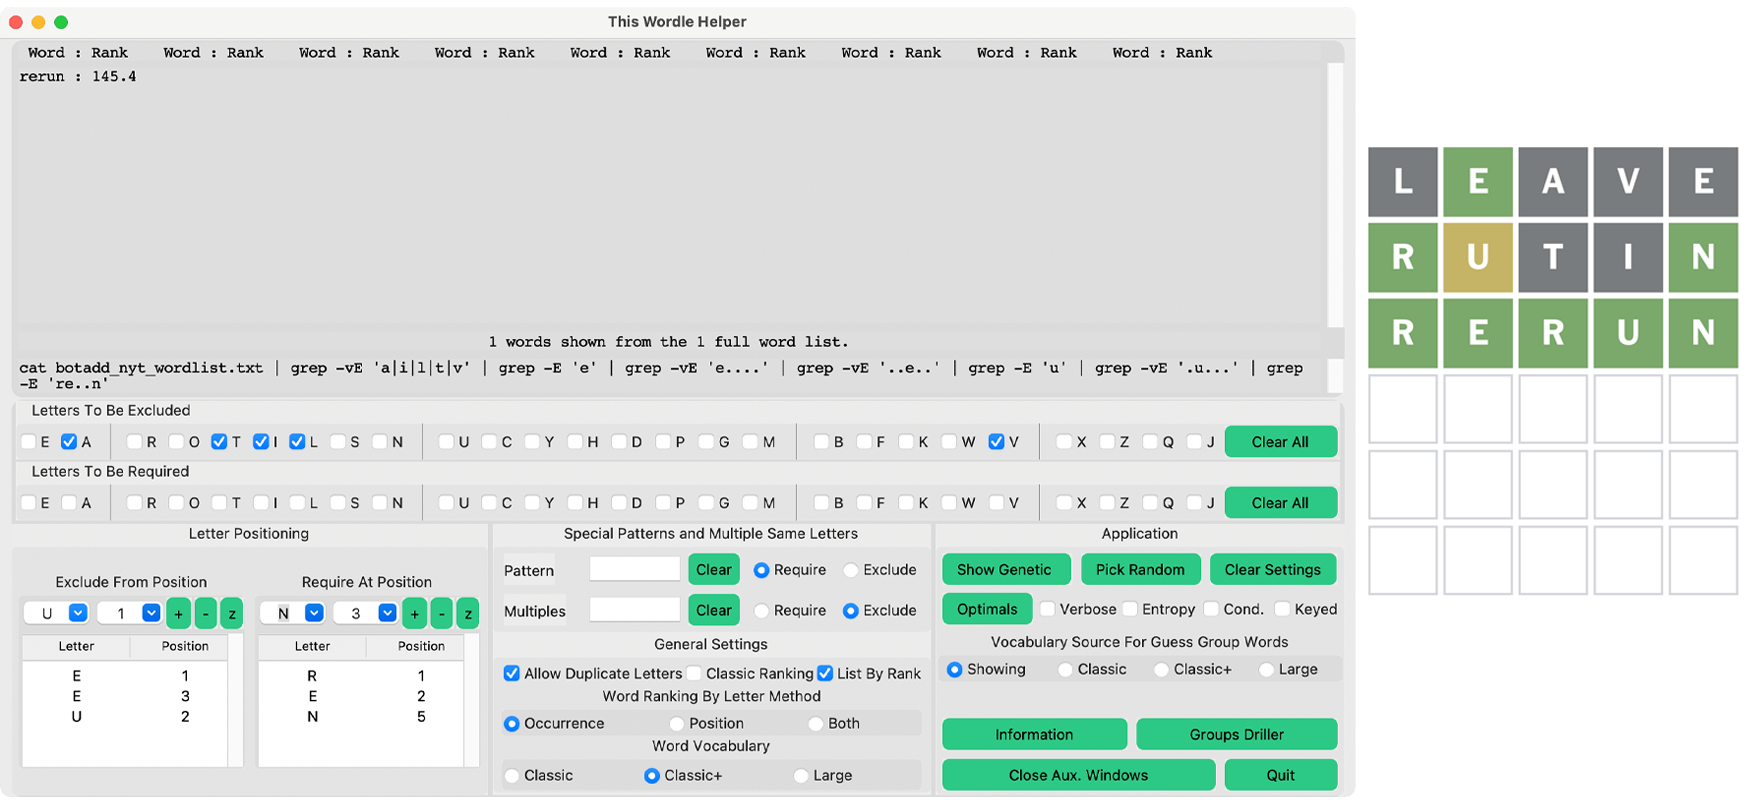
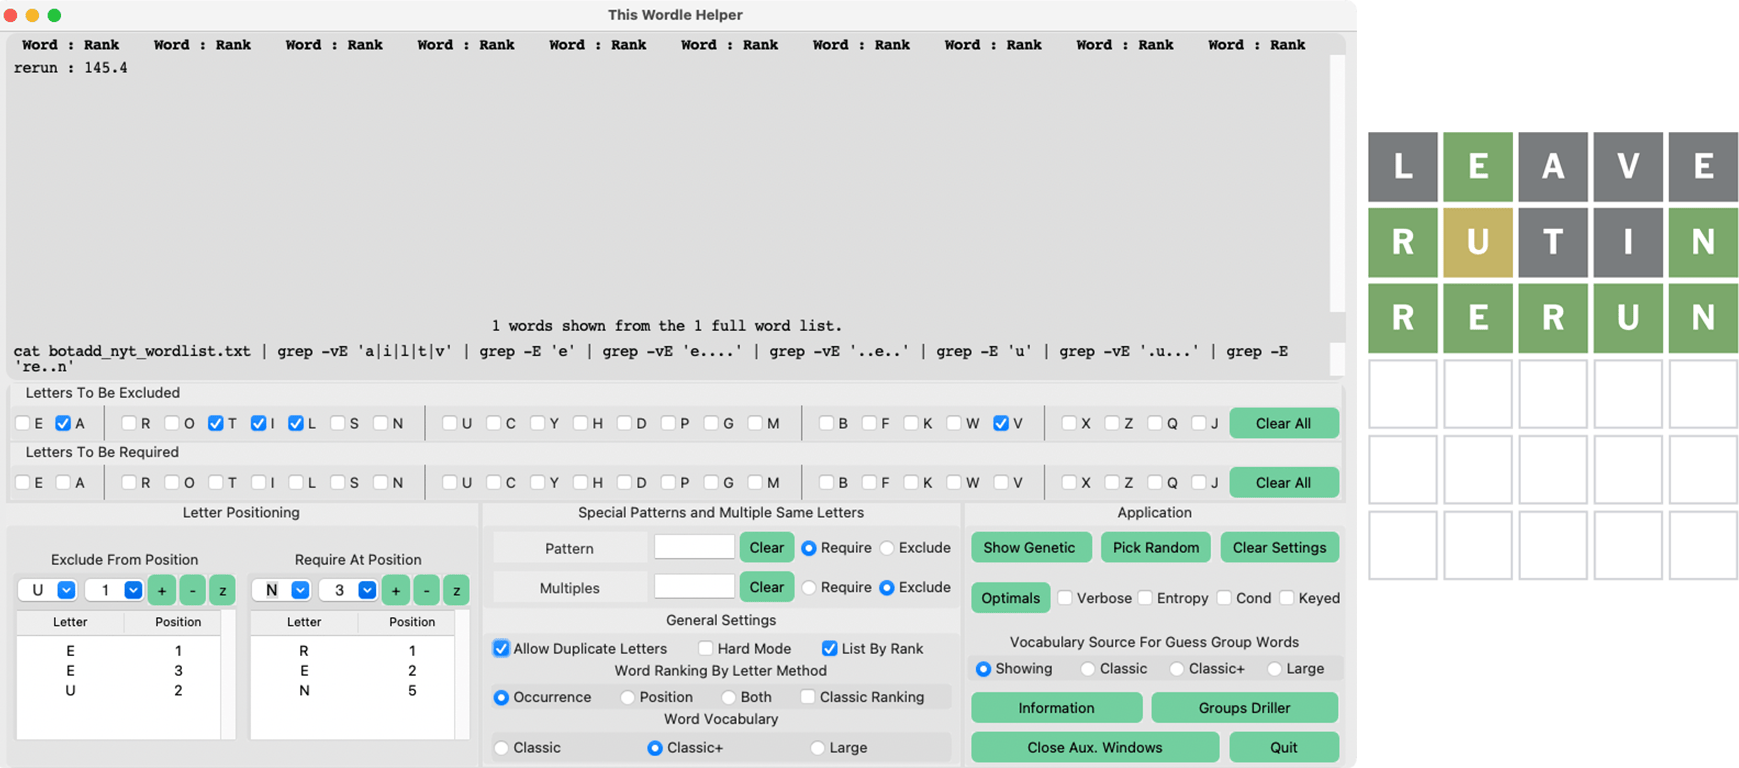
Hard Mode Documentation

Changed region(s): [[0.0, 0.1562, 1.0, 1.0], [0.0, 0.0, 0.7453, 0.125]]

diff --git a/helpers.py b/helpers.py
@@ -1485,7 +1485,8 @@ class CustomText(tk.Text):
 
         if not_found:
             msg = (f"Did not find \"{pattern}\"."
-                   f"\n\nThe word that was searched is not in the vocabulary that was used for guesses.")
+                   f"\n\nThe word that was searched is not in the vocabulary that was used for guesses."
+                   f"\n\nIs Hard Mode selected? Hard Mode excludes guesses from the vocabulary.")
             messagebox.showinfo(title=None, message=msg)
         else:
             self.see(first_index)

diff --git a/pywt.py b/pywt.py
@@ -358,7 +358,6 @@ class Pywordlemainwindow(ctk.CTk):
                 optimal_group_guesses = {}
                 context = "Wordle Helper"
 
-                # TO DO - convert guess_targets dict to be a dictionary of only hard mode guess targets
                 hm_grn_pat = ''
                 hm_yel_ltrs = []
                 if self.use_hard_mode.get():

diff --git a/README.md b/README.md
@@ -137,7 +137,8 @@
 * The **Group Driller** verbose report window is not being shown in this **README**. It is identical in function and appearance to the **Helper's** verbose report window when not using the **Condensed** option.
 * The **Keyed** option includes the guess word for each group pattern. This option is useful for maintaining the guess word associations when exporting the groups data (copy and paste) for all guesses.
 * The **Condensed** option verbose report omits showing the guess word groups. Instead, only the guess word's group stats are output in a format intended for copy and pasting into a spreadsheet application for further investigation.
-* The **Condensed** listing shows Wordle **Standard (Default) Mode** guesses as ranked by **Entropy**. There is not a way to filter out words so that only **Hard Mode** words are shown. However, it is often possible to use the **Find** feature to highlight the words that comply with **green** Wordle clues such that it is easy to then spot those words also having the correct **yellow** letters. The **Find** feature operates on regex patterns. For example, if the letter **i** is required as the 2nd letter and the letter **r** is required as the last letter, then "**^.i..r**" is the regex pattern that will cause all words like **timer**, **sitar** and **tiger** to be highlighted. Note that the "**^**" is required. Its regex meaning is "starting with". The "**.**", or dots, mean "any character." 
+* The **Condensed** listing shows Wordle **Standard (Default) Mode** or **Hard Mode** guesses as ranked by **Entropy**. The **General Settings** **Hard Mode** option controls which type of guess **Condensed** mode reports.
+* The **Find** feature operates on regex patterns. For example, if the letter **i** is required as the 2nd letter and the letter **r** is required as the last letter, then "**^.i..r**" is the regex pattern that will cause all words like **timer**, **sitar** and **tiger** to be highlighted. Note that the "**^**" is required. Its regex meaning is "starting with". The "**.**", or dots, mean "any character." 
 
 !['Group Drilling Condensed Result Window Image'](InfoImages/PYWTGroupDrillingCond.png)
 
@@ -184,9 +185,13 @@ Special **Pattern** allows one to quickly introduce a custom require or exclude 
 
 **Multiples** is a concept that may be difficult to understand at first. If your guess word has multiple same letters and one of those letters is yellow or green then all words with two or more of those letters must be *excluded* via **Multiples** because one of those letters being gray means the solution has just one of those letters. You can ignore the idea when all of those guess same letters are grey. If your guess word has multiple same letters and both of those letters is yellow or green in any combination then all words with two or more of those letters must be *included* via **Multiples**. You might need to think about needing three of those letters being *included*. **Multiples** operates as either include or exclude. More complicated requirements can be achieved by combining **Multiples** inclusions with **Exclude From Position** exclusions or **Special Pattern**. The Helper does not do any thinking for you in this regard.
 
+* **Hard Mode** restricts the guesses shown by the **Optimals** feature to comply with Wordle Hard Mode rules where green letters must be used in their green positions and yellow letters must be somewhere present.
+
 * **Special Pattern** allows one to quickly introduce a custom require or exclude filter pattern that can operate on letter position. One might use this to compare the number of words having a **SS** pattern versus **S.S** or **S..S** patterns where the period character, "**.**", means 'any letter'. The pattern **S..S** shows words having any two letters between S letters like the words SMUSH and TSARS.
 
 * **Special Pattern** turns out to be especially useful for spotting words groups in part because its setting is independent of the Exclude and Require Position controls. Thus, you can very quickly set and then clear **Special Pattern** without affecting one's thought train.
+
+* **Hard Mode** controls the guess word type that is used by **Optimals**. The **Hard Mode** option uses the **Exclude From Position** and the **Include At Position** data. These designations must be entered for **Hard Mode** to properly filter guess word candidates. In **Hard Mode** green letters must be used in their green positions and yellow letters must be present. Yellow letters can occupy wrong positions. Grey letters can be used without any restriction. **The Wordle Helper** will not correctly require the rare cases where multiple yellow same letters are required.
 
 * **Show Genetic** highlights the highest **genetic ranking** word in the current showing word list. The highest **genetic ranking** word is a word from the list that is most in common with the word list in regard to letters. The highest **genetic ranking** word, or words sometimes, could either rule out the most number of words or rule in the highest number of discovered letters. For example for the word GLIDE, its genetic rank is the sum of all the times its own letters, G, L, I, D, E show up once in each word in the given list plus an adjustment equal to the number of times a letter in the subject word (GLIDE) repeats within the subject word. High **genetic ranking** words perform well as Wordle plays. It is quickly determined and is often what some people like to figure from the words they think remain. That is why the method is a pywordletool feature. **Genetic ranking** is a valid strategy, but it does not perform as quite as well as **groups analysis**.
 
